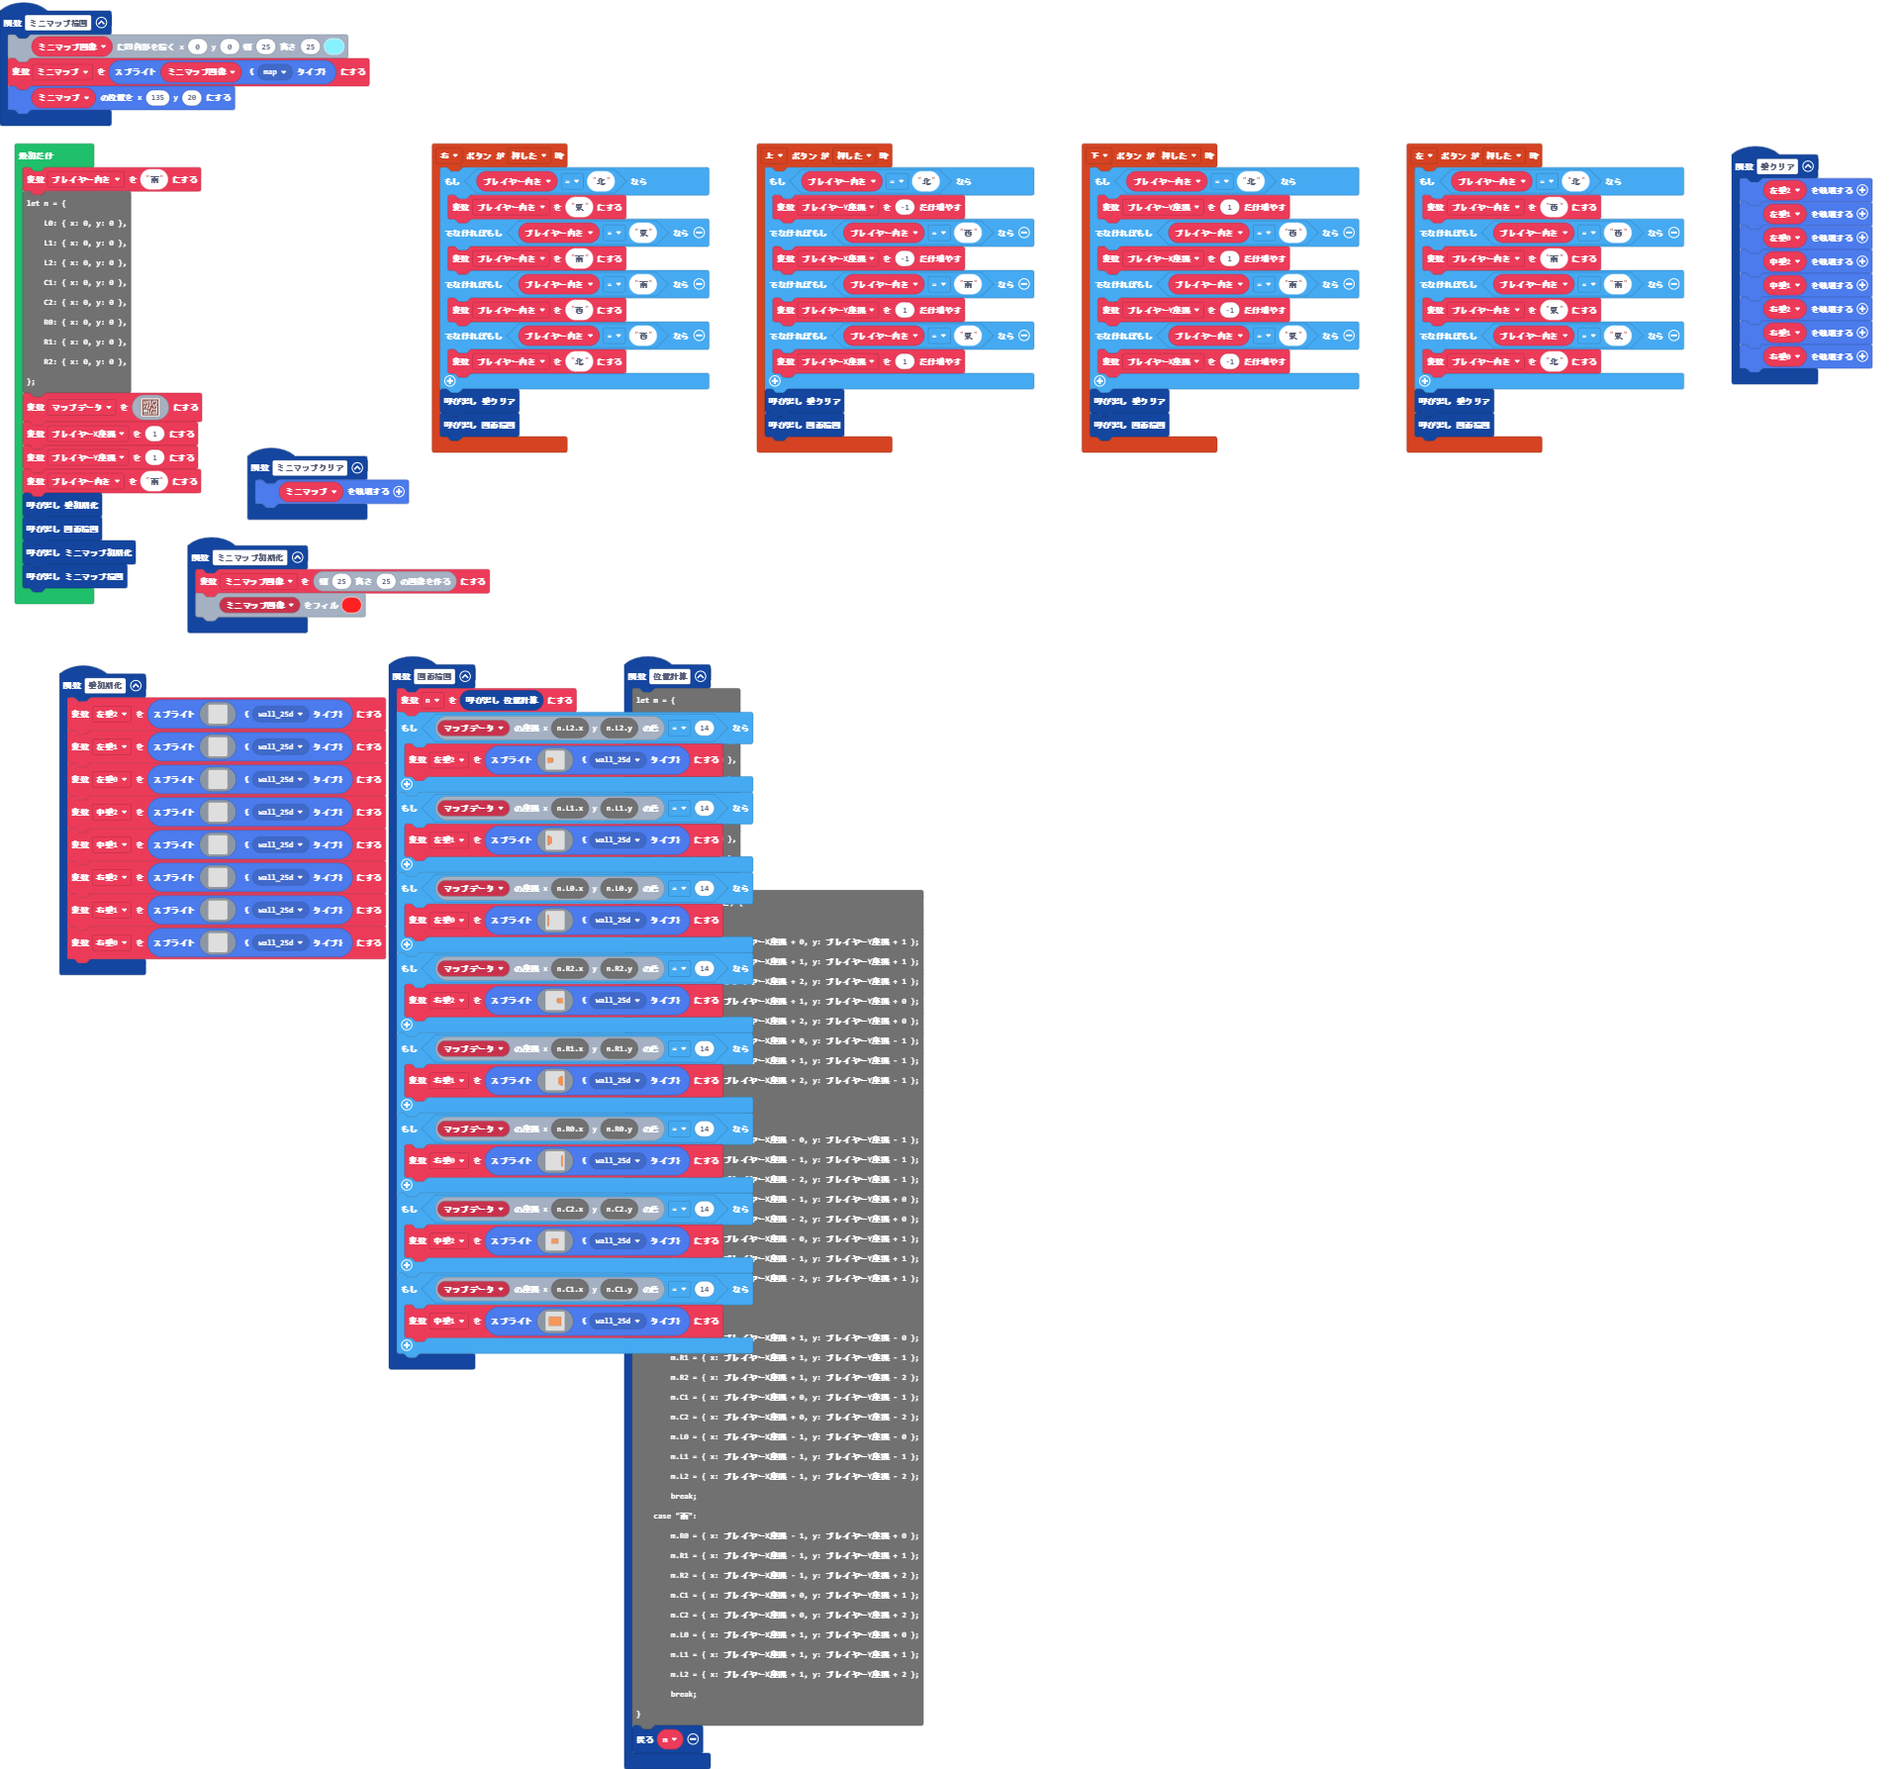
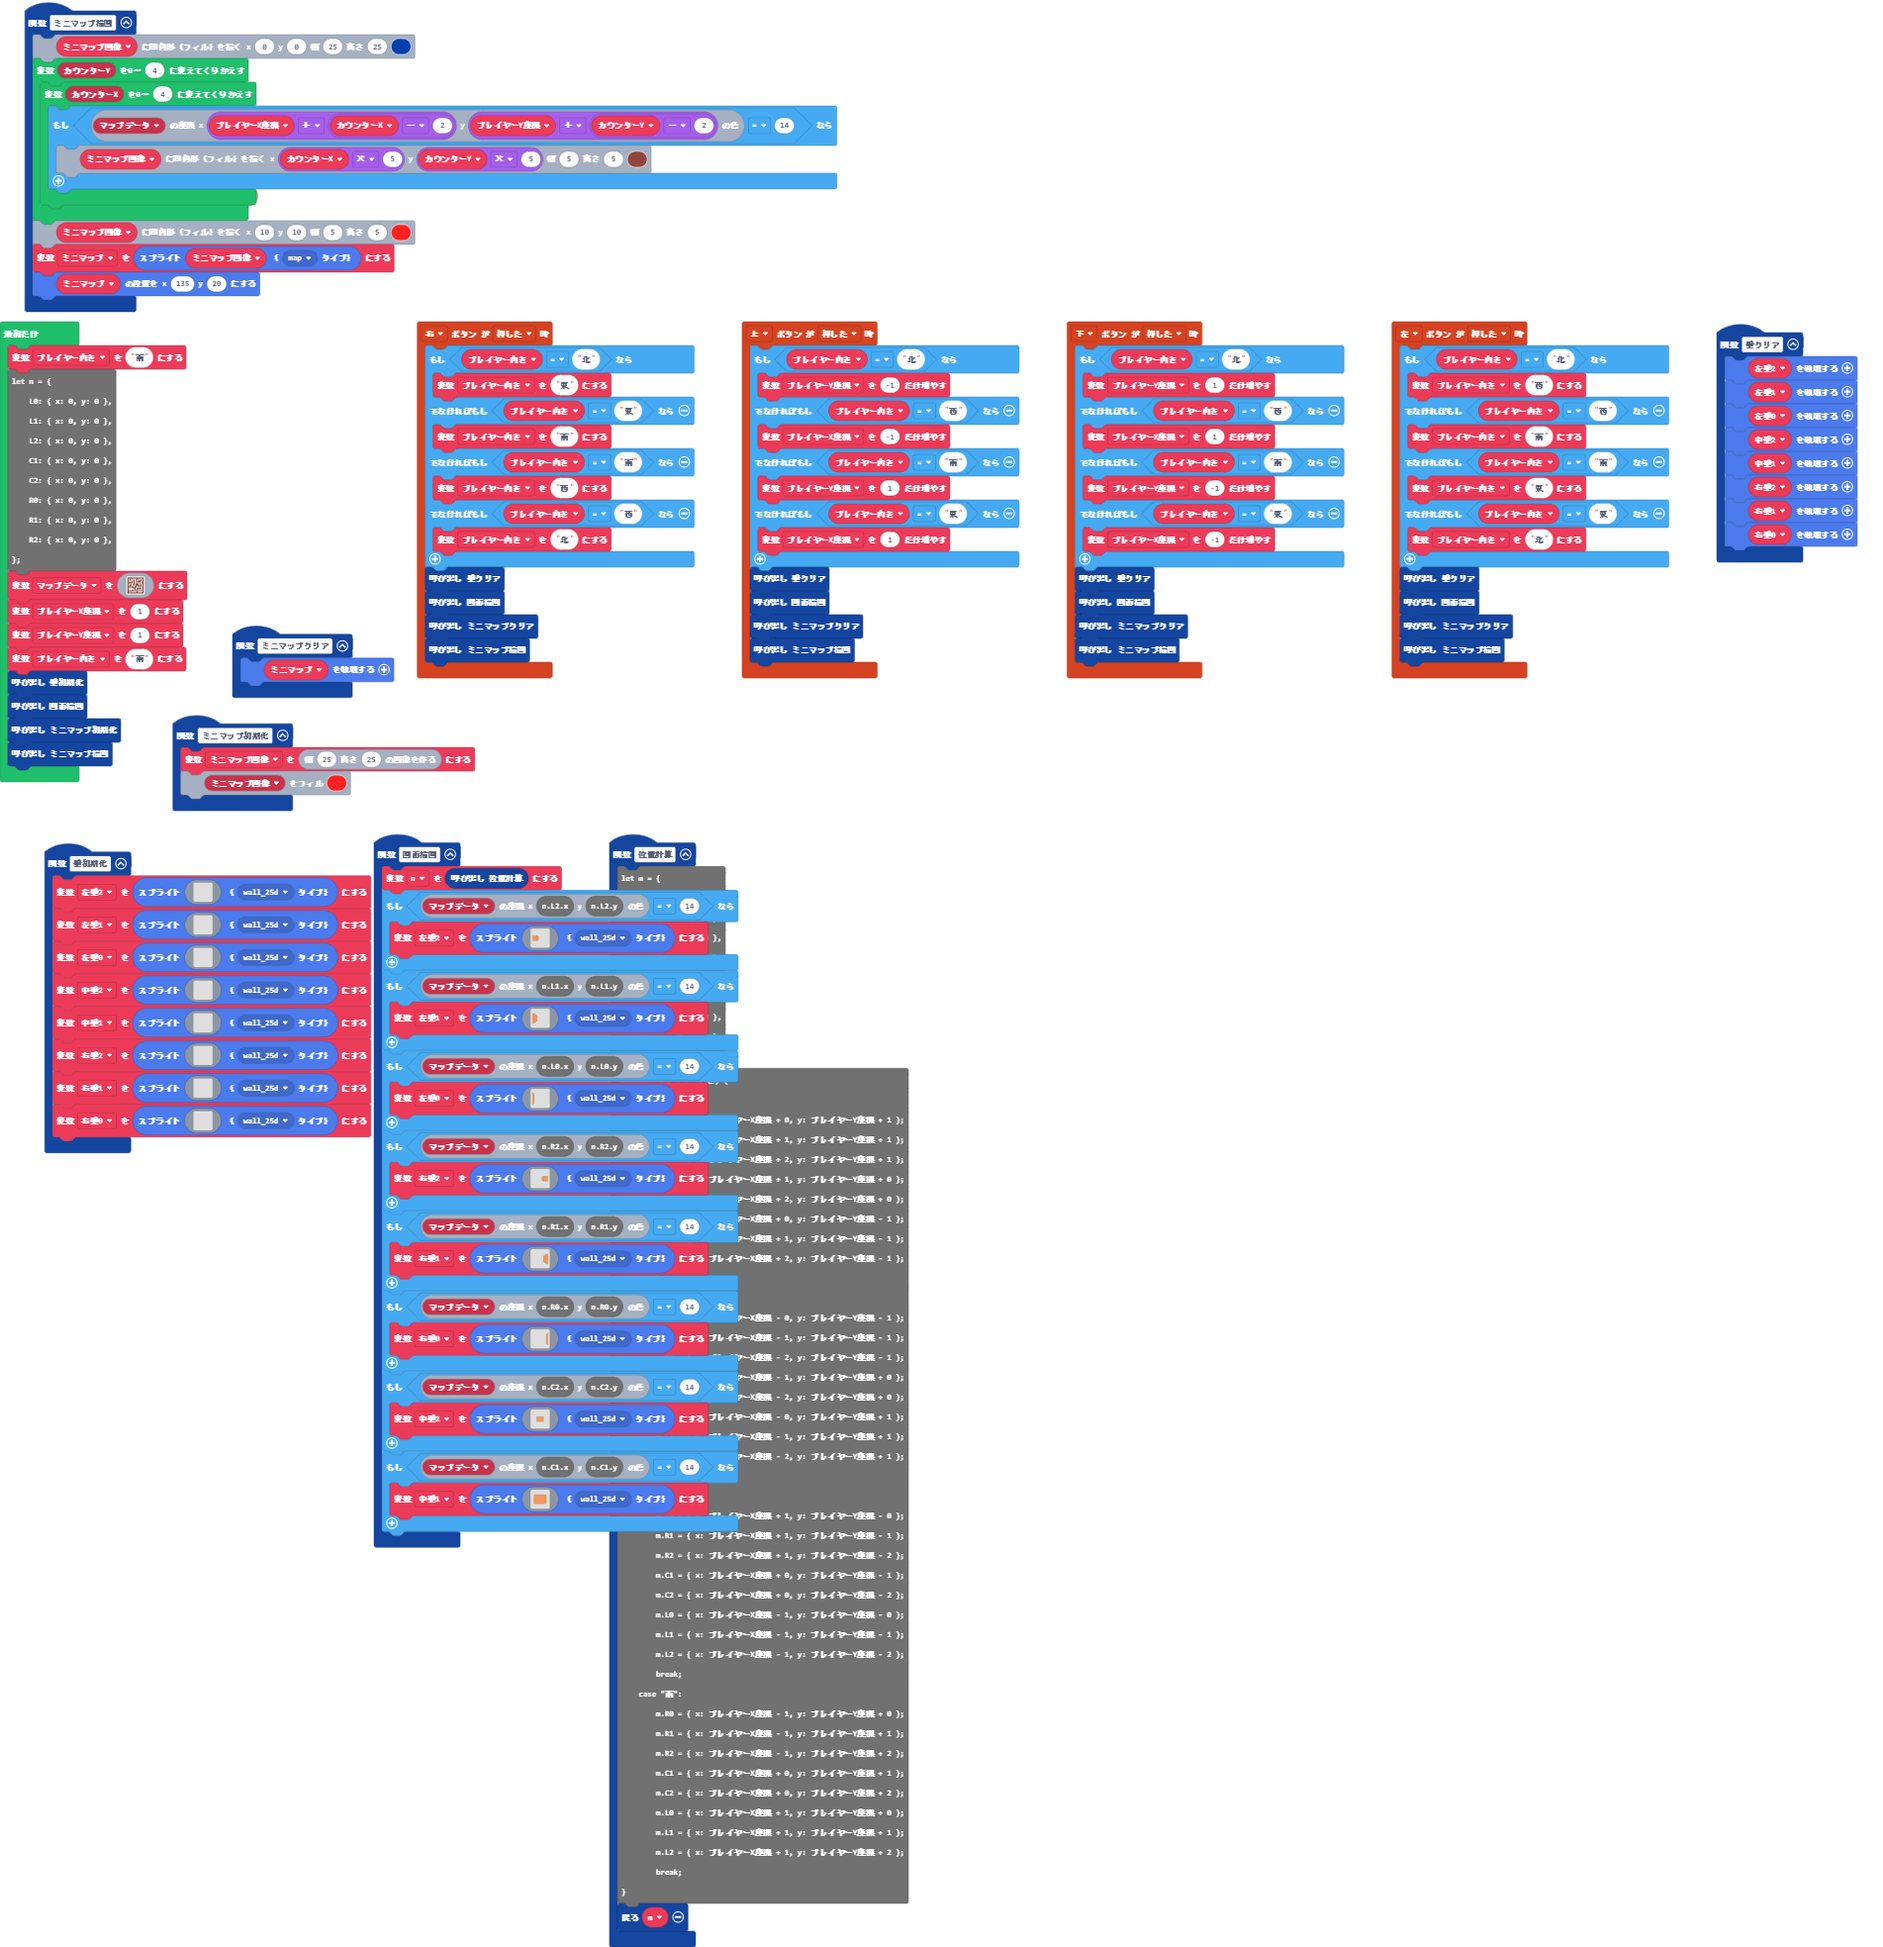
更新 main.blocks, main.ts

Changed region(s): [[0.0, 0.0, 0.9921, 1.0]]

diff --git a/main.ts b/main.ts
@@ -14,6 +14,8 @@ controller.right.onEvent(ControllerButtonEvent.Pressed, function () {
     }
     壁クリア()
     画面描画()
+    ミニマップクリア()
+    ミニマップ描画()
 })
 function ミニマップ初期化 () {
     ミニマップ画像 = image.create(25, 25)
@@ -96,6 +98,8 @@ controller.down.onEvent(ControllerButtonEvent.Pressed, function () {
     }
     壁クリア()
     画面描画()
+    ミニマップクリア()
+    ミニマップ描画()
 })
 controller.left.onEvent(ControllerButtonEvent.Pressed, function () {
     if (プレイヤー向き == "北") {
@@ -109,9 +113,19 @@ controller.left.onEvent(ControllerButtonEvent.Pressed, function () {
     }
     壁クリア()
     画面描画()
+    ミニマップクリア()
+    ミニマップ描画()
 })
 function ミニマップ描画 () {
-    ミニマップ画像.drawRect(0, 0, 25, 25, 9)
+    ミニマップ画像.fillRect(0, 0, 25, 25, 8)
+    for (let カウンターY = 0; カウンターY <= 4; カウンターY++) {
+        for (let カウンターX = 0; カウンターX <= 4; カウンターX++) {
+            if (マップデータ.getPixel(プレイヤーX座標 + (カウンターX - 2), プレイヤーY座標 + (カウンターY - 2)) == 14) {
+                ミニマップ画像.fillRect(カウンターX * 5, カウンターY * 5, 5, 5, 14)
+            }
+        }
+    }
+    ミニマップ画像.fillRect(10, 10, 5, 5, 2)
     ミニマップ = sprites.create(ミニマップ画像, SpriteKind.map)
     ミニマップ.setPosition(135, 20)
 }
@@ -140,6 +154,8 @@ controller.up.onEvent(ControllerButtonEvent.Pressed, function () {
     }
     壁クリア()
     画面描画()
+    ミニマップクリア()
+    ミニマップ描画()
 })
 function 画面描画 () {
     n = 位置計算()
@@ -178,6 +194,8 @@ let 左壁0: Sprite = null
 let 左壁1: Sprite = null
 let 左壁2: Sprite = null
 let ミニマップ画像: Image = null
+let プレイヤーY座標 = 0
+let プレイヤーX座標 = 0
 let マップデータ: Image = null
 let プレイヤー向き = ""
 プレイヤー向き = "南"
@@ -192,8 +210,8 @@ let n = {
     R2: { x: 0, y: 0 },
 };
 マップデータ = assets.image`マップ１`
-let プレイヤーX座標 = 1
-let プレイヤーY座標 = 1
+プレイヤーX座標 = 1
+プレイヤーY座標 = 1
 プレイヤー向き = "南"
 壁初期化()
 画面描画()
